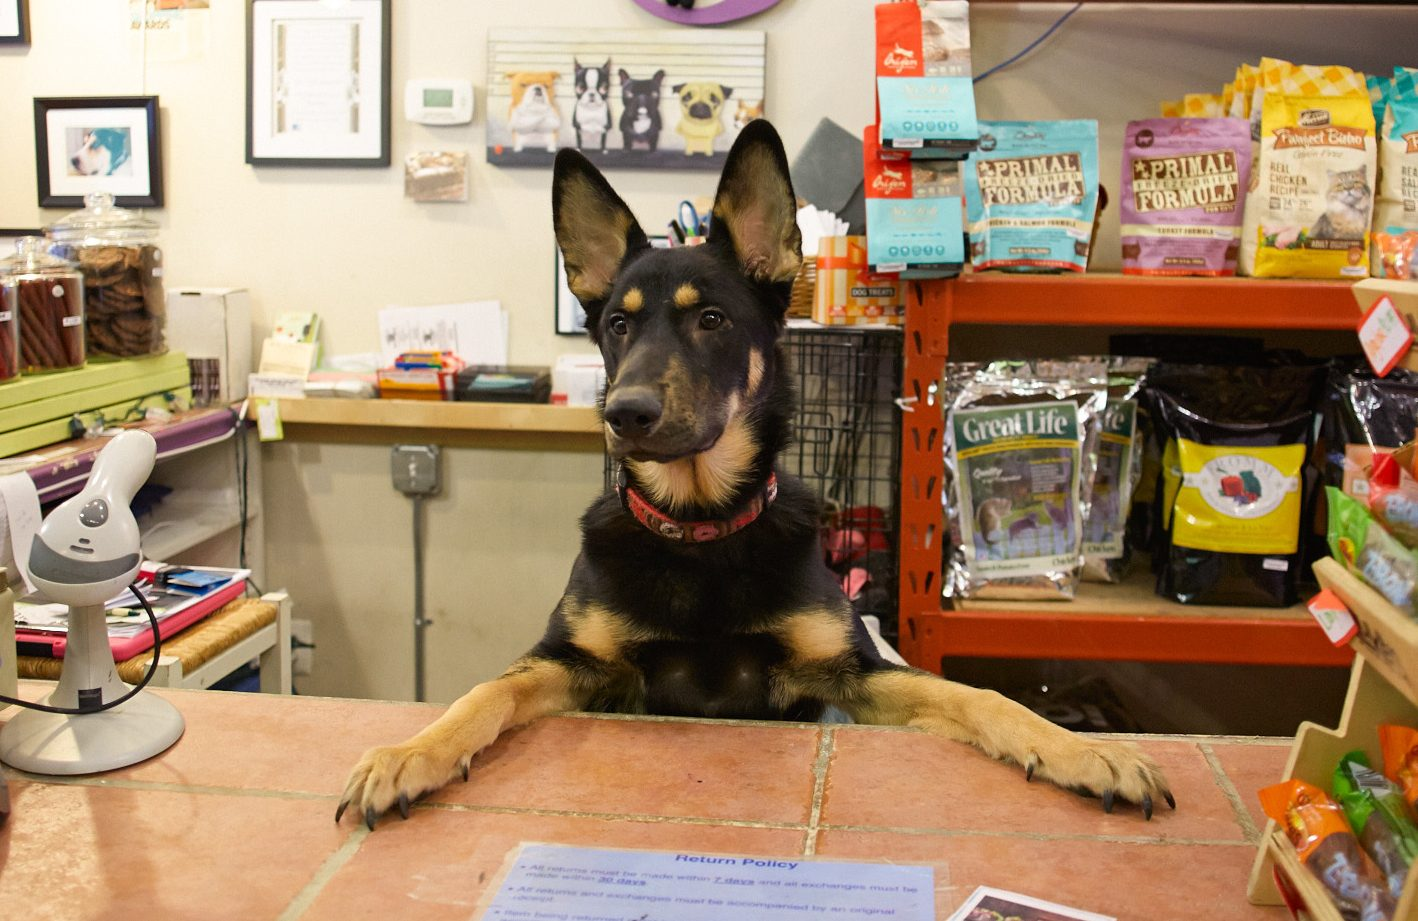
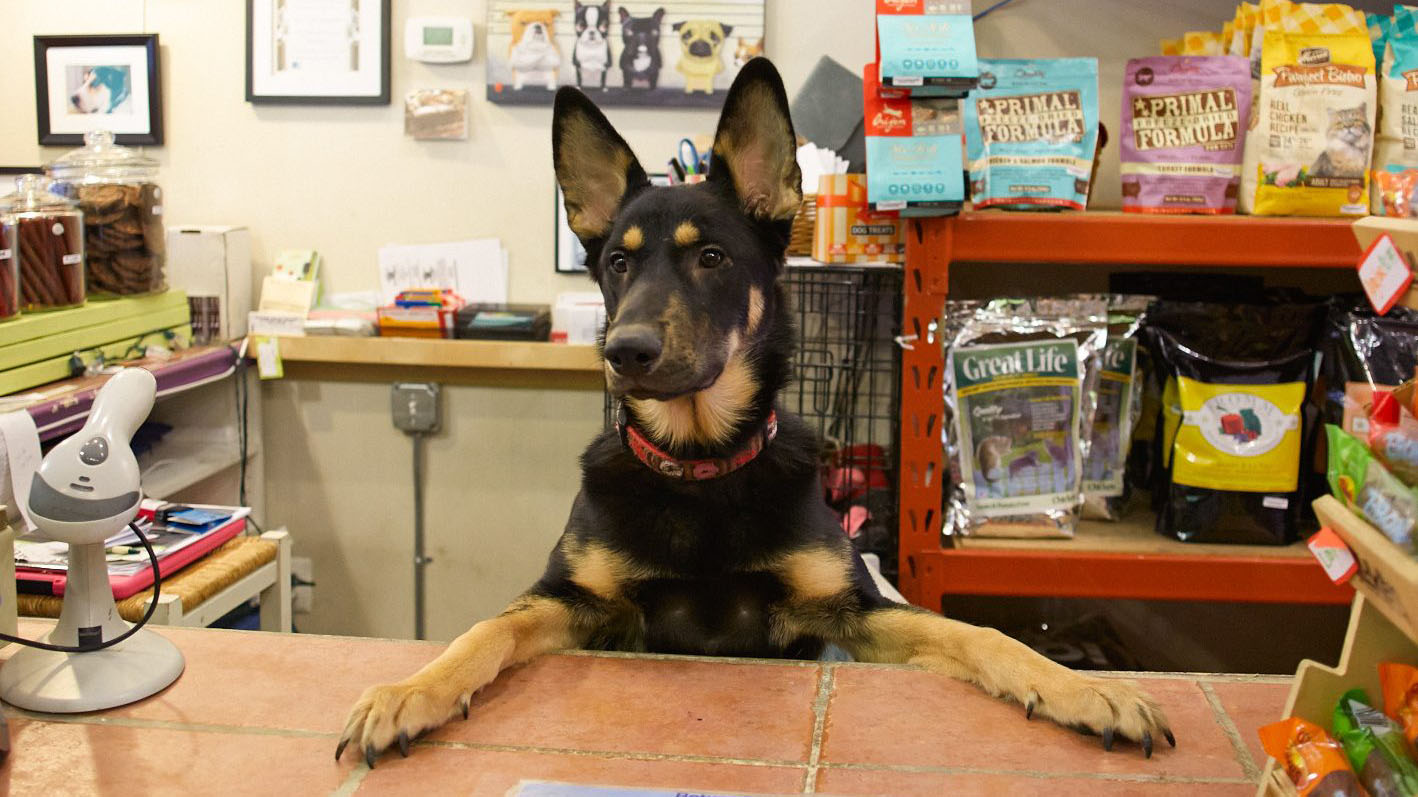
Made eye catcher a little less HUGE

diff --git a/src/main/resources/static/css/housestyle.css b/src/main/resources/static/css/housestyle.css
@@ -55,16 +55,17 @@ a:hover{
 }
 
 .carousel-caption h1{
+    background-color: white;
+    border-radius: 10px;
     font-size: 500%;
     text-transform: uppercase;
-    text-shadow: 1px 1px 15px #000;
 }
 
 .carousel-caption h3{
     font-size: 200%;
     font-weight: 500;
     text-shadow: 1px 1px 10px #000;
-    padding-top: 50%;
+    padding-top: 40%;
 }
 
 /*--not working for some reason--*/
@@ -219,7 +220,7 @@ hr.light-100{
         top: 35%;
     }
     .carousel-caption h3{
-        padding-top: 50%;
+        padding-top: 40%;
     }
 
     .carousel-caption h1{
@@ -252,7 +253,7 @@ hr.light-100{
         top: 35%;
     }
     .carousel-caption h3{
-        padding-top: 45%;
+        padding-top: 35%;
     }
 
     .carousel-caption h1{
